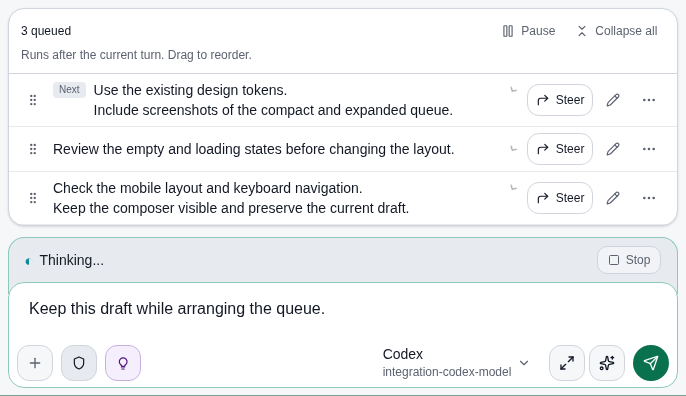
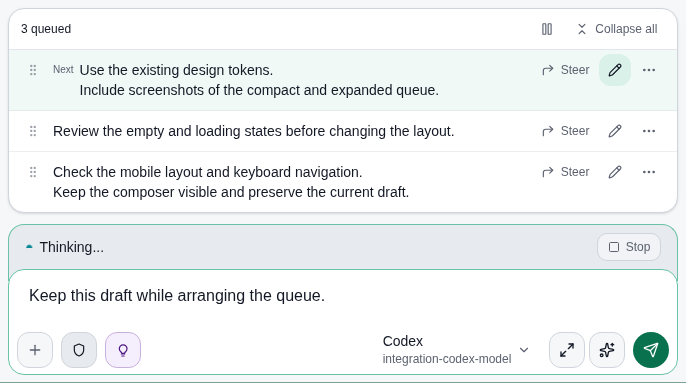
Refine queue density and mobile reading layout

diff --git a/web/src/lib/components/chat/queue/QueuedInputTrayRow.svelte b/web/src/lib/components/chat/queue/QueuedInputTrayRow.svelte
@@ -25,7 +25,6 @@
 	} from '$lib/components/ui/dropdown-menu';
 	import * as m from '$lib/paraglide/messages.js';
 	import Ellipsis from '@lucide/svelte/icons/ellipsis';
-	import ChevronDown from '@lucide/svelte/icons/chevron-down';
 	import Clock3 from '@lucide/svelte/icons/clock-3';
 	import CornerUpRight from '@lucide/svelte/icons/corner-up-right';
 	import FastForward from '@lucide/svelte/icons/fast-forward';
@@ -150,7 +149,7 @@
 	aria-busy={steering || deleting}
 	aria-posinset={position}
 	aria-setsize={count}
-	class="@container/queue-row absolute inset-x-0 top-0 border-b border-border/50 px-2 py-1.5 sm:px-3"
+	class="@container/queue-row absolute inset-x-0 top-0 border-b border-border/40 px-2 py-1 last:border-b-0 hover:bg-accent/40 focus-within:bg-accent/40 sm:px-3"
 	style:transform={`translateY(${virtualItem.start}px)`}
 	class:opacity-50={dragging}
 	onfocusin={() => onRetain('focus', true)}
@@ -165,16 +164,14 @@
 			class:top-0={edge === 'top'}
 			class:bottom-0={edge === 'bottom'}
 		></div>{/if}
-	<div
-		class="grid grid-cols-[1.5rem_minmax(0,1fr)] items-center gap-x-2 gap-y-1 @min-[30rem]/queue-row:grid-cols-[1.5rem_minmax(0,1fr)_auto]"
-	>
+	<div class="grid grid-cols-[1.5rem_minmax(0,1fr)_auto] items-start gap-x-1">
 		<span
 			bind:this={dragHandle}
 			data-queue-drag-id={entry.id}
 			role="img"
 			aria-label={m.chat_queue_drag_handle({ position })}
 			title={m.chat_queue_drag_handle({ position })}
-			class="row-span-2 flex size-6 items-center justify-center text-muted-foreground @min-[30rem]/queue-row:row-span-1"
+			class="flex h-11 w-6 items-center justify-center text-muted-foreground/60 hover:text-foreground sm:pointer-fine:h-8"
 			class:cursor-grab={!blocked}
 		>
 			<GripVertical class="size-3.5" />
@@ -187,11 +184,12 @@
 				? m.chat_queue_collapse_message({ position })
 				: m.chat_queue_toggle_message({ position })}
 			title={entry.content || attachmentNames}
-			class="flex min-w-0 items-start gap-2 rounded text-left text-sm text-foreground focus-visible:outline-none focus-visible:ring-2 focus-visible:ring-ring"
+			class={`flex min-h-11 min-w-0 items-start gap-1.5 rounded px-1 ${expanded ? 'py-1.5' : 'py-3'} text-left text-sm leading-5 text-foreground hover:text-primary focus-visible:outline-none focus-visible:ring-2 focus-visible:ring-ring sm:pointer-fine:min-h-8 sm:pointer-fine:py-1.5 @min-[30rem]/queue-row:col-span-1`}
+			class:col-span-2={expanded}
 		>
 			{#if position === 1 && entry.kind === 'turn' && !steering}
 				<span
-					class="mt-0.5 shrink-0 rounded bg-muted px-1.5 text-[10px] font-medium leading-4 text-muted-foreground"
+					class="sr-only shrink-0 text-[10px] font-medium leading-5 text-muted-foreground @min-[30rem]/queue-row:not-sr-only"
 					>{m.chat_queue_next_up()}</span
 				>
 			{/if}
@@ -202,13 +200,11 @@
 				class:whitespace-pre-wrap={expanded}
 				class:break-words={expanded}>{entry.content.trim() ? entry.content : attachmentNames}</span
 			>
-			<ChevronDown
-				class={`mt-1 size-3 shrink-0 text-muted-foreground transition-transform ${expanded ? 'rotate-180' : ''}`}
-				aria-hidden="true"
-			/>
 		</button>
 		<div
-			class="col-start-2 flex items-center justify-end gap-1 @min-[30rem]/queue-row:col-start-3 @min-[30rem]/queue-row:row-start-1"
+			class="flex items-center justify-end gap-0.5 @min-[30rem]/queue-row:col-span-1 @min-[30rem]/queue-row:col-start-3"
+			class:col-start-2={expanded}
+			class:col-span-2={expanded}
 		>
 			{#if entry.attachments.length > 0 && !expanded}<span
 					data-queue-preview-attachments
@@ -218,10 +214,12 @@
 				>{/if}
 			{#if entry.kind === 'steer' && !steering}
 				<span
-					class="mr-auto inline-flex h-8 items-center gap-1.5 text-xs text-muted-foreground @min-[30rem]/queue-row:mr-1"
+					class="inline-flex min-h-11 items-center gap-1 text-xs text-muted-foreground sm:pointer-fine:min-h-8"
 					title={m.chat_queue_pending_steer_detail()}
 				>
-					<Clock3 class="size-3.5" aria-hidden="true" />{m.chat_queue_pending_steer()}
+					<Clock3 class="size-3.5" aria-hidden="true" /><span
+						class="sr-only @min-[30rem]/queue-row:not-sr-only">{m.chat_queue_pending_steer()}</span
+					>
 				</span>
 			{:else if canSteer || steering}
 				<button
@@ -235,10 +233,10 @@
 					title={entry.attachments.length > 0
 						? m.chat_queue_steer_attachments_unavailable()
 						: m.chat_queue_steer_queue()}
-					class="mr-auto inline-flex min-h-11 items-center gap-1.5 rounded-lg border border-border px-3 text-xs font-medium text-foreground hover:bg-accent focus-visible:outline-none focus-visible:ring-2 focus-visible:ring-ring disabled:opacity-50 sm:pointer-fine:min-h-8 sm:pointer-fine:px-2 @min-[30rem]/queue-row:mr-0"
+					class="inline-flex min-h-11 min-w-11 shrink-0 items-center justify-center gap-1.5 rounded-lg px-2 text-xs font-medium text-muted-foreground hover:bg-accent hover:text-foreground focus-visible:outline-none focus-visible:ring-2 focus-visible:ring-ring disabled:opacity-50 sm:pointer-fine:min-h-8"
 				>
-					{#if steering}<Loader2 class="size-3.5 animate-spin" />{:else}<CornerUpRight
-							class="size-3.5"
+					{#if steering}<Loader2 class="size-3.5 shrink-0 animate-spin" />{:else}<CornerUpRight
+							class="hidden size-3.5 shrink-0 @min-[30rem]/queue-row:block"
 						/>{/if}<span>{m.chat_queue_steer()}</span>
 				</button>
 			{/if}

diff --git a/web/src/lib/components/chat/queue/QueueControls.svelte b/web/src/lib/components/chat/queue/QueueControls.svelte
@@ -180,11 +180,15 @@
 		data-queue-chat-id={chatId}
 		tabindex="-1"
 	>
-		<header class="flex shrink-0 flex-wrap items-center gap-x-2 border-b border-border px-3 py-1.5">
+		<header
+			class="flex shrink-0 flex-wrap items-center gap-x-2 border-b border-border/60 px-3 py-1"
+		>
 			<span
 				class="text-xs font-medium text-foreground"
 				aria-live={announcementsEnabled ? 'polite' : 'off'}
-				aria-atomic="true">{m.chat_queue_pending_count({ count: entries.length })}</span
+				aria-atomic="true"
+				title={m.chat_queue_follow_up_detail()}
+				>{m.chat_queue_pending_count({ count: entries.length })}</span
 			>
 			{#if queue.pause}<span class="min-w-0 truncate text-xs text-queue-foreground"
 					>{queue.pause.kind === 'manual'
@@ -200,14 +204,16 @@
 							pauseId ? () => onResume(pauseId) : onPause,
 						)}
 					disabled={blocked}
-					class="inline-flex min-h-11 items-center gap-1.5 rounded-lg px-2 text-xs text-muted-foreground hover:bg-accent hover:text-foreground focus-visible:outline-none focus-visible:ring-2 focus-visible:ring-ring disabled:opacity-50 sm:pointer-fine:min-h-8"
+					class="inline-flex min-h-11 min-w-11 items-center justify-center gap-1.5 rounded-lg px-2 text-xs text-muted-foreground hover:bg-accent hover:text-foreground focus-visible:outline-none focus-visible:ring-2 focus-visible:ring-ring disabled:opacity-50 sm:pointer-fine:min-h-8 sm:pointer-fine:min-w-8"
 					aria-label={pauseId ? m.chat_queue_resume() : m.chat_queue_pause()}
 					title={pauseId ? m.chat_queue_resume_queue() : m.chat_queue_pause_queue()}
 				>
 					{#if mutation?.kind === 'pausing' || mutation?.kind === 'resuming'}<Loader2
 							class="size-3.5 animate-spin"
 						/>{:else if pauseId}<Play class="size-3.5" />{:else}<Pause class="size-3.5" />{/if}
-					{pauseId ? m.chat_queue_resume() : m.chat_queue_pause()}
+					<span class:sr-only={!pauseId}
+						>{pauseId ? m.chat_queue_resume() : m.chat_queue_pause()}</span
+					>
 				</button>
 				<button
 					type="button"
@@ -226,11 +232,13 @@
 					{expanded ? m.common_collapse_all() : m.common_expand_all()}
 				</button>
 			</div>
-			<p class="basis-full pb-1 text-xs text-muted-foreground">
-				{pauseDetail}
-				{#if affectedEntryRemoved}
-					{m.chat_queue_pause_affected_removed()}{/if}
-			</p>
+			{#if queue.pause}
+				<p class="basis-full pb-2 pt-1 text-xs text-muted-foreground">
+					{pauseDetail}
+					{#if affectedEntryRemoved}
+						{m.chat_queue_pause_affected_removed()}{/if}
+				</p>
+			{/if}
 		</header>
 		<div
 			bind:this={listElement}

diff --git a/integration-tests/tests/chromium/inline-queue.test.ts b/integration-tests/tests/chromium/inline-queue.test.ts
@@ -139,6 +139,26 @@ test("reorders, expands, edits, and steers queued messages from the chat on desk
         phase("using the queue on a narrow screen");
         await page.setViewportSize({ width: 390, height: 844 });
         await browserExpect(composer).toBeVisible();
+        await browserExpect
+          .poll(() =>
+            tray
+              .locator("[data-queue-entry-id]")
+              .evaluateAll((rows) =>
+                rows.every((row) => row.getBoundingClientRect().height <= 60),
+              ),
+          )
+          .toBe(true);
+        const firstMobileRow = tray.locator("[data-queue-entry-id]").first();
+        for (const name of ["Steer", "Edit queued message", "Queue actions"]) {
+          const bounds = await firstMobileRow
+            .getByRole("button", { name, exact: true })
+            .boundingBox();
+          expect(bounds?.width).toBeGreaterThanOrEqual(44);
+          expect(bounds?.height).toBeGreaterThanOrEqual(44);
+        }
+        await page.screenshot({
+          path: join(artifactDir, "mobile-compact.png"),
+        });
         await tray
           .getByRole("button", { name: "Expand all queued messages" })
           .click();
@@ -156,6 +176,10 @@ test("reorders, expands, edits, and steers queued messages from the chat on desk
               ),
           )
           .toBe(true);
+        const expandedPreviewBounds = await previews.first().boundingBox();
+        const mobileTrayBounds = await tray.boundingBox();
+        if (!expandedPreviewBounds || !mobileTrayBounds) throw new Error("Queue text is not visible");
+        expect(expandedPreviewBounds.width).toBeGreaterThan(mobileTrayBounds.width * 0.75);
         await page.screenshot({
           path: join(artifactDir, "mobile-expanded.png"),
         });

diff --git a/docs/inline-chat-queue-design.md b/docs/inline-chat-queue-design.md
@@ -2,13 +2,19 @@
 
 Queued messages remain visible above the composer, with drag ordering, per-message
 and full-list expansion, a direct edit button, and a Steer button on every text
-message while the current provider supports steering. Mobile rows place actions
-below the message to preserve its reading width. Remove and Send now belong in
-the overflow menu; Send now retains its existing first-entry behavior.
+message while the current provider supports steering. Compact rows keep message
+text and actions aligned on both desktop and mobile. Expanded text uses the full
+reading width in narrow panes, with its actions below. Steer remains a labeled
+action at every width; editing and overflow use icons with accessible labels.
+Remove and Send now belong in the overflow menu; Send now retains its existing
+first-entry behavior.
 
-The queue identifies its next entry, explains that follow-ups run after the active
-turn, and names Expand all and Collapse all explicitly. Touch controls have 44px
-targets. The pencil opens only the selected message in a desktop side drawer or
+The queue identifies its next entry and names Expand all and Collapse all
+explicitly. The count's tooltip explains automatic delivery and drag ordering;
+pause explanations appear only while paused. The normal header occupies one line,
+and row controls use a flat treatment instead of repeated bordered buttons.
+Touch controls have 44px targets. The pencil opens only the selected message in a
+desktop side drawer or
 full-screen mobile editor; Save closes it and returns to the chat. The editor
 retains its textarea, focus, and draft when the message departs or changes
 elsewhere, with the existing conflict and queue-as-new recovery actions. Queue

diff --git a/docs/screenshots/inline-chat-queue/README.md b/docs/screenshots/inline-chat-queue/README.md
@@ -7,7 +7,8 @@ Captured from the implemented application with isolated synthetic chats by
 - `desktop-expanded.png`: expanded messages with Steer and direct editing.
 - `desktop-menu.png`: Send now and Remove in the overflow menu.
 - `desktop-editor.png`: focused single-message editor in a side drawer.
-- `mobile-expanded.png`: wrapped message text with actions below each message.
+- `mobile-compact.png`: compact rows with aligned controls and labeled Steer actions.
+- `mobile-expanded.png`: full-width message text with flat actions below each message.
 - `mobile-menu.png`: mobile overflow actions.
 - `mobile-editor.png`: full-screen message editor with Save and Cancel.
 - `landscape-tall-composer.png`: a large queue and tall composer in a short pane.
